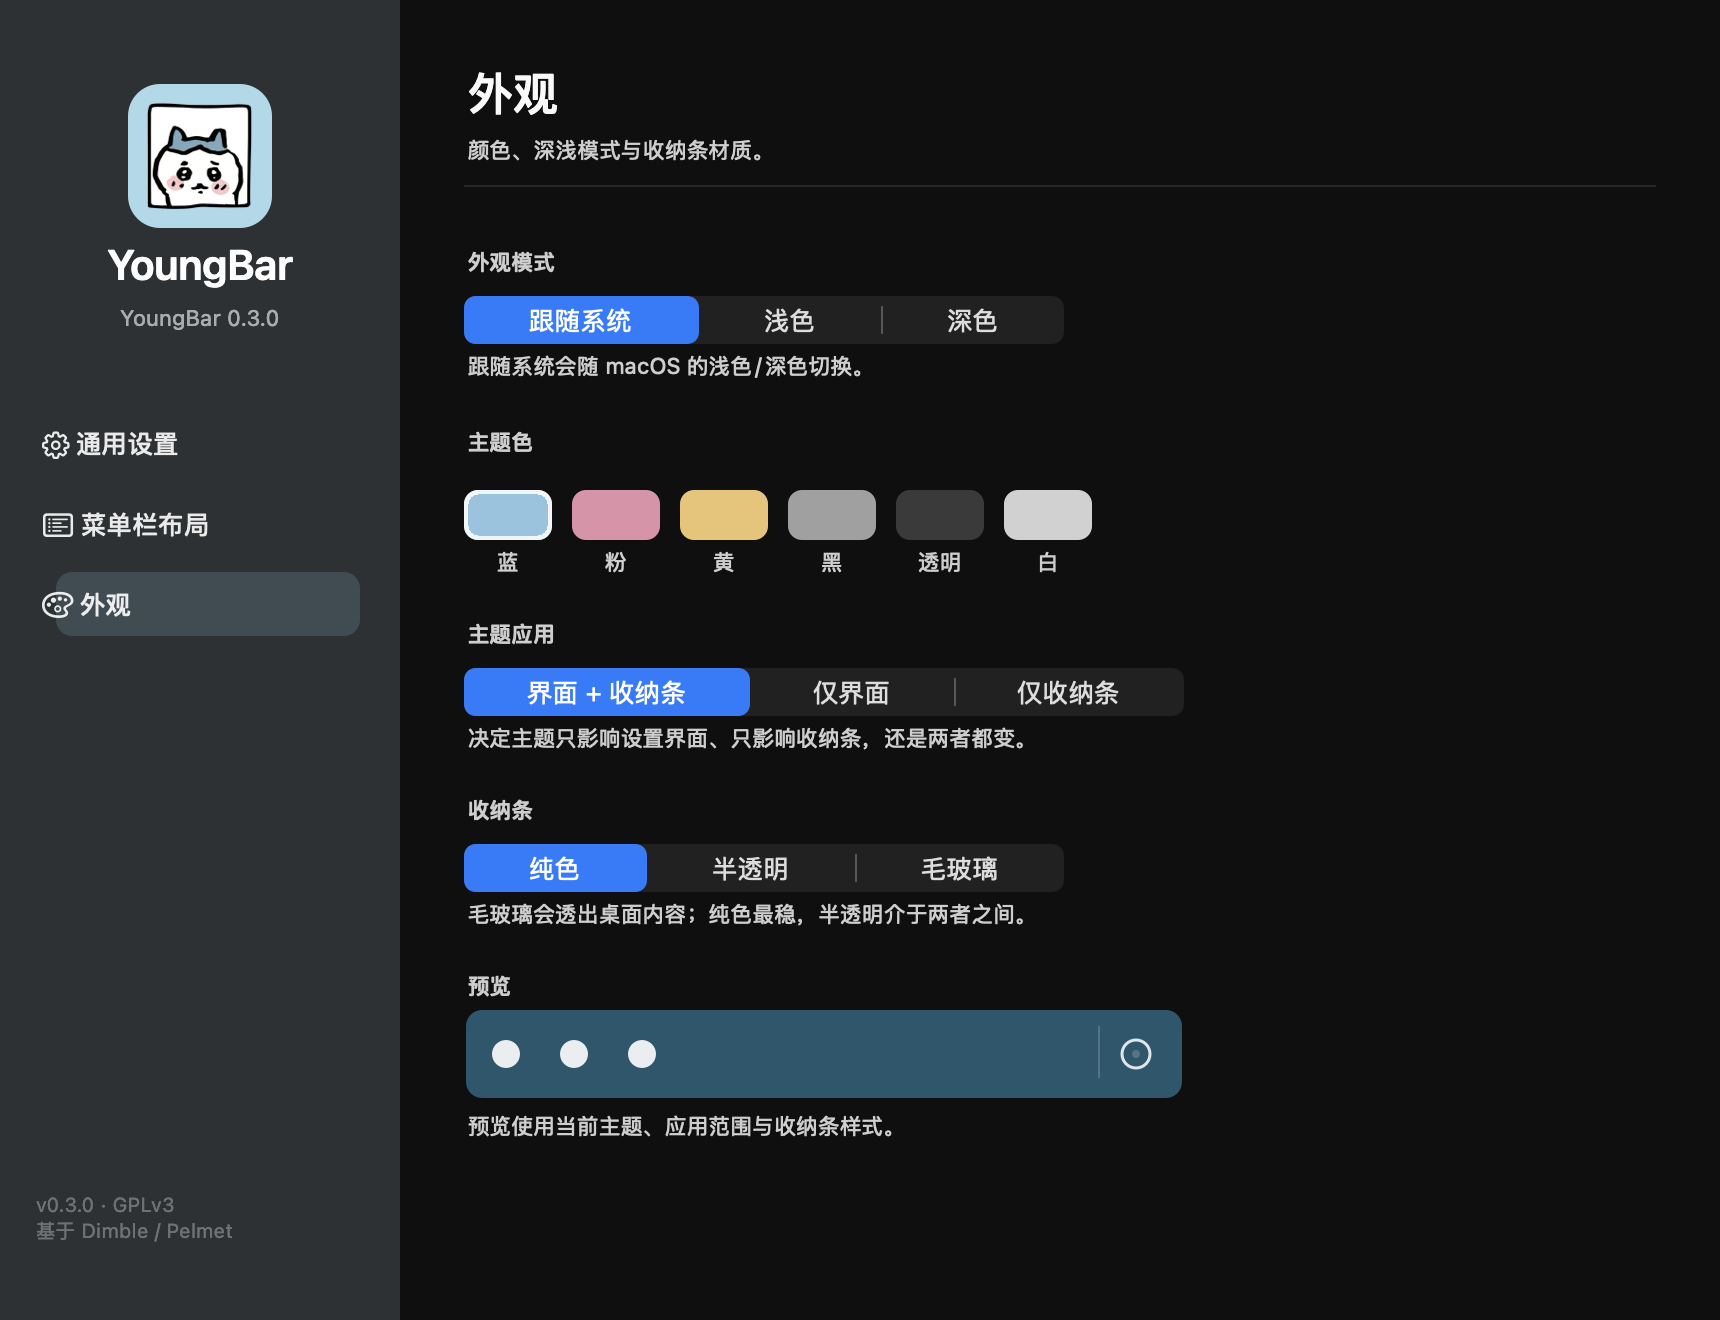
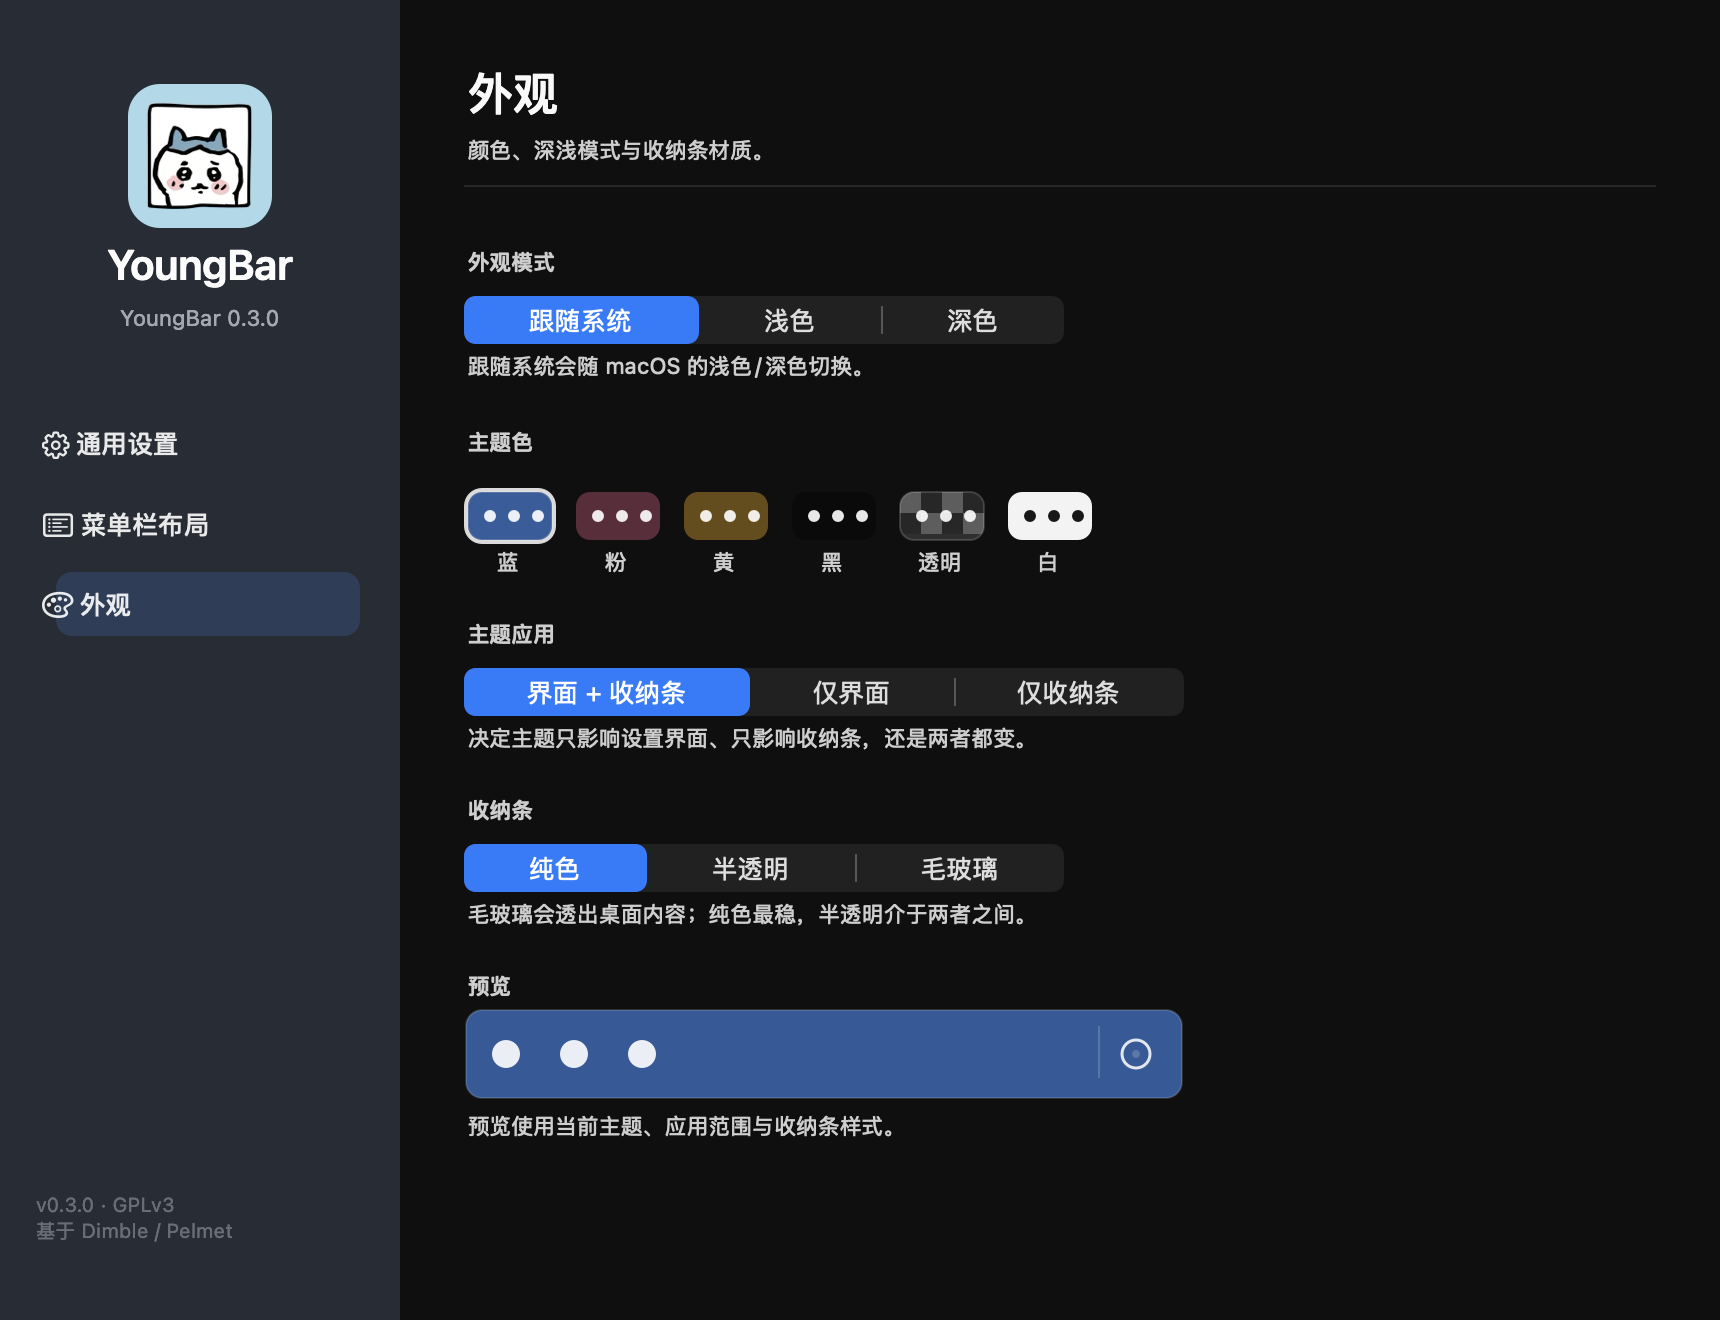
fix(youngbar): 蓝/透明主题角色对调，色块改为迷你收纳条
- 蓝 = 蓝色玻璃 + 蓝猫图标；透明 = 中性玻璃，不再染系统蓝
- 色块显示实际条配色，透明用棋盘格，黑白不再混淆
- 收纳条玻璃改回 NSVisualEffectView + tint，修复图标被玻璃内容层盖住
- 截图与第 132 轮日志

Changed region(s): [[0.2465, 0.7455, 0.7087, 0.8386], [0.2465, 0.3727, 0.6471, 0.4348]]

diff --git a/Sources/YoungBar/Theme.swift b/Sources/YoungBar/Theme.swift
@@ -39,18 +39,18 @@ enum ThemeColor: Int, CaseIterable {
 
     var accent: NSColor {
         switch self {
-        case .blue: return NSColor(calibratedRed: 0.50, green: 0.72, blue: 0.85, alpha: 1)
+        case .blue: return NSColor(calibratedRed: 0.20, green: 0.45, blue: 0.95, alpha: 1)
         case .pink: return NSColor(calibratedRed: 0.85, green: 0.48, blue: 0.60, alpha: 1)
         case .yellow: return NSColor(calibratedRed: 0.90, green: 0.72, blue: 0.36, alpha: 1)
         case .black: return NSColor(calibratedWhite: 0.56, alpha: 1)
-        case .clear: return NSColor.controlAccentColor
+        case .clear: return NSColor(calibratedWhite: 0.55, alpha: 1)
         case .white: return NSColor(calibratedWhite: 0.78, alpha: 1)
         }
     }
 
     var strip: NSColor {
         switch self {
-        case .blue: return NSColor(calibratedRed: 0.10, green: 0.27, blue: 0.35, alpha: 1)
+        case .blue: return .clear
         case .pink: return NSColor(calibratedRed: 0.29, green: 0.12, blue: 0.17, alpha: 1)
         case .yellow: return NSColor(calibratedRed: 0.33, green: 0.23, blue: 0.06, alpha: 1)
         case .black: return NSColor(calibratedWhite: 0.04, alpha: 1)
@@ -60,7 +60,16 @@ enum ThemeColor: Int, CaseIterable {
     }
 
     var isLightStrip: Bool { self == .white }
-    var isTransparent: Bool { self == .clear }
+    var isTransparent: Bool { self == .clear || self == .blue }
+
+    /// Tint applied when the strip is rendered as glass.
+    var glassTint: NSColor {
+        switch self {
+        case .blue: return NSColor(calibratedRed: 0.12, green: 0.42, blue: 0.95, alpha: 0.55)
+        case .clear: return .clear
+        default: return accent.withAlphaComponent(0.18)
+        }
+    }
 
     var iconResource: String? {
         switch self {
@@ -131,6 +140,9 @@ final class ThemePreviewView: NSView {
         let path = NSBezierPath(roundedRect: rect, xRadius: 8, yRadius: 8)
         if color.isTransparent {
             NSColor(white: 0.24, alpha: 0.55).setFill(); path.fill()
+            if color != .clear {
+                color.glassTint.setFill(); path.fill()
+            }
             NSColor.white.withAlphaComponent(0.14).setStroke(); path.lineWidth = 1; path.stroke()
         } else {
             switch style {
@@ -158,5 +170,57 @@ final class ThemePreviewView: NSView {
         gear.lineWidth = 1.5
         gear.stroke()
         NSBezierPath(ovalIn: NSRect(x: rect.maxX - 25, y: rect.midY - 2, width: 4, height: 4)).fill()
+    }
+}
+
+
+/// A miniature strip used as a theme swatch: background + three symbols.
+final class ThemeSwatchButton: NSButton {
+    var theme: ThemeColor = .blue { didSet { needsDisplay = true } }
+    var selected: Bool = false { didSet { needsDisplay = true } }
+
+    override func draw(_ dirtyRect: NSRect) {
+        let rect = bounds.insetBy(dx: 2, dy: 2)
+        let path = NSBezierPath(roundedRect: rect, xRadius: 7, yRadius: 7)
+        if theme.isTransparent {
+            NSColor(white: 0.26, alpha: 0.62).setFill()
+            path.fill()
+            if theme == .clear {
+                NSGraphicsContext.saveGraphicsState()
+                path.addClip()
+                let cell = rect.width / 4
+                for row in 0..<2 {
+                    for column in 0..<4 {
+                        let light = (row + column) % 2 == 0
+                        (light ? NSColor.white.withAlphaComponent(0.22) : NSColor.black.withAlphaComponent(0.18)).setFill()
+                        NSRect(x: rect.minX + CGFloat(column) * cell, y: rect.minY + CGFloat(row) * cell,
+                               width: cell, height: cell).fill()
+                    }
+                }
+                NSGraphicsContext.restoreGraphicsState()
+            } else {
+                theme.glassTint.setFill()
+                path.fill()
+            }
+            NSColor.white.withAlphaComponent(0.16).setStroke()
+            path.lineWidth = 1
+            path.stroke()
+        } else {
+            theme.strip.setFill()
+            path.fill()
+        }
+
+        (theme.isLightStrip ? NSColor.black : NSColor.white).withAlphaComponent(0.9).setFill()
+        for index in 0..<3 {
+            let dot = NSRect(x: rect.minX + 8 + CGFloat(index) * 12, y: rect.midY - 3, width: 6, height: 6)
+            NSBezierPath(ovalIn: dot).fill()
+        }
+
+        if selected {
+            NSColor.labelColor.setStroke()
+            let ring = NSBezierPath(roundedRect: rect.insetBy(dx: -1, dy: -1), xRadius: 8, yRadius: 8)
+            ring.lineWidth = 2
+            ring.stroke()
+        }
     }
 }

diff --git a/Sources/YoungBar/BarSettings.swift b/Sources/YoungBar/BarSettings.swift
@@ -60,7 +60,7 @@ final class BarSettings: NSObject, NSTableViewDataSource, NSTableViewDelegate {
     private let scopeControl = NSSegmentedControl(labels: ThemeScope.allCases.map(\.title),
                                                   trackingMode: .selectOne, target: nil, action: nil)
     private let appIconView = NSImageView()
-    private var colorButtons: [NSButton] = []
+    private var colorButtons: [ThemeSwatchButton] = []
     private let preview = ThemePreviewView()
 
     override init() {
@@ -318,12 +318,10 @@ final class BarSettings: NSObject, NSTableViewDataSource, NSTableViewDelegate {
 
         appearancePage.addSubview(sectionLabel("主题色", y: 430))
         for (index, theme) in ThemeColor.allCases.enumerated() {
-            let button = NSButton(title: "", target: self, action: #selector(colorPicked(_:)))
-            button.frame = NSRect(x: 32 + CGFloat(index) * 54, y: 390, width: 44, height: 25)
+            let button = ThemeSwatchButton(title: "", target: self, action: #selector(colorPicked(_:)))
+            button.frame = NSRect(x: 32 + CGFloat(index) * 54, y: 388, width: 46, height: 28)
             button.isBordered = false
-            button.wantsLayer = true
-            button.layer?.backgroundColor = (theme.isTransparent ? NSColor.white.withAlphaComponent(0.18) : theme.accent).cgColor
-            button.layer?.cornerRadius = 7
+            button.theme = theme
             button.tag = index
             button.toolTip = theme.title
             button.setAccessibilityLabel(theme.title)
@@ -513,8 +511,7 @@ final class BarSettings: NSObject, NSTableViewDataSource, NSTableViewDelegate {
         preview.color = theme
         preview.style = StripStyle(rawValue: options["stripStyle"] ?? 0) ?? .solid
         for (index, button) in colorButtons.enumerated() {
-            button.layer?.borderWidth = index == theme.rawValue ? 2 : 0
-            button.layer?.borderColor = NSColor.labelColor.cgColor
+            button.selected = index == theme.rawValue
         }
         appIconView.image = themeIcon(theme)
         let scope = ThemeScope(rawValue: options["themeScope"] ?? 0) ?? .both

diff --git a/Sources/YoungBar/main.swift b/Sources/YoungBar/main.swift
@@ -1085,6 +1085,11 @@ final class BarApp: NSObject, NSApplicationDelegate {
             effect.wantsLayer = true
             effect.layer?.cornerRadius = 8
             effect.layer?.masksToBounds = true
+            let tint = NSView(frame: effect.bounds)
+            tint.autoresizingMask = [.width, .height]
+            tint.wantsLayer = true
+            tint.layer?.backgroundColor = (effectiveColor.map(\.glassTint) ?? themeColor.glassTint).cgColor
+            effect.addSubview(tint)
             background = effect
         } else {
             let view = NSView(frame: NSRect(x: 0, y: 0, width: width, height: height))

diff --git a/docs/STATUS.md b/docs/STATUS.md
@@ -43,9 +43,10 @@
 | 卡片式布局 | ✅ 每条独立圆角行，整行可拖，无表头/边框 |
 | 一页布局 | ✅ 行高按项目数自动压缩，12 项一屏放下 | `docs/images/settings-layout.png` | `docs/images/settings-layout.png` |
 | 布局顺序校准 | ✅ 新项按真实 x 插入；可见项每次刷新校准并持久化 | `itemOrder` 以有道翻译开头；`docs/images/settings-layout.png` |
-| 外观主题 | ✅ 深/浅/跟随系统 + 6 主题色 + 3 种收纳条 |
+| 外观主题 | ✅ 深/浅/跟随系统 + 6 主题色（色块为迷你收纳条）+ 3 种收纳条 |
 | 主题图标 | ✅ 蓝猫 / 粉羊 / 黄兔随主题切换（侧栏、关于） | `appearance-{blue,pink,yellow}.png` |
-| 主题应用范围 | ✅ 界面 + 收纳条 / 仅界面 / 仅收纳条 | `appearance-white.png`、`shelf-white.png` | `docs/images/appearance-{dark,light}.png`、`shelf-sakura.png` |
+| 主题应用范围 | ✅ 界面 + 收纳条 / 仅界面 / 仅收纳条 | `appearance-white.png`、`shelf-white.png` |
+| 蓝 / 透明区分 | ✅ 蓝=蓝色玻璃；透明=中性玻璃，不再被系统蓝染色 | `appearance-blue.png`、`appearance-clear.png`、`shelf-blue.png` | `docs/images/appearance-{dark,light}.png`、`shelf-sakura.png` |
 | 关于窗口 | ✅ 菜单打开，显示版本 0.3.0 (3) | `abouttest.json`；`docs/images/about.png` |
 | 全局快捷键 | ✅ ⌃⌥B 展开 / 收起，无需鼠标 | `hotkeytest.json`：`opened:true`、`closed:true`、`passed:true` |
 | 收纳条齿轮 | ✅ 真实点击打开设置并收起收纳条 | `geartest.json`：`settingsOpened:true`、`shelfClosed:true`、`passed:true` |

diff --git a/README.md b/README.md
@@ -15,7 +15,7 @@ A keyboard-first menu bar organizer for **macOS 27**. Hide the icons you do not 
 - **Reorder**: ⌘-drag in the real menu bar (verified with a swap-and-restore test) and drag rows in the layout table.
 - **Global hotkey**: ⌃⌥B toggles the strip without the mouse.
 - **Layout list**: one rounded card per item (name, icon, Hide, Always Hidden), draggable as a whole row, with system items included. Date and Control Center keep their macOS-fixed position but can be hidden.
-- **Appearance**: liquid-glass settings window with integrated traffic lights (no separate titlebar), system / light / dark, six palettes (blue, pink, yellow, black, clear, white), theme-matched sidebar icons for blue/pink/yellow, a three-way scope (interface + strip / interface only / strip only), and solid / translucent / vibrant strip materials.
+- **Appearance**: liquid-glass settings window with integrated traffic lights (no separate titlebar), system / light / dark, six palettes (blue glass, pink, yellow, black, neutral clear, white) with mini-strip swatches, theme-matched sidebar icons for blue/pink/yellow, a three-way scope (interface + strip / interface only / strip only), and solid / translucent / vibrant strip materials.
 - **Settings entry from the strip**: a pinned gear at the right edge.
 - **Local only**: no telemetry, no network. Menu-bar crops are cached in `~/Library/Application Support/YoungBar/pictures.json` and can be cleared from the menu.
 
